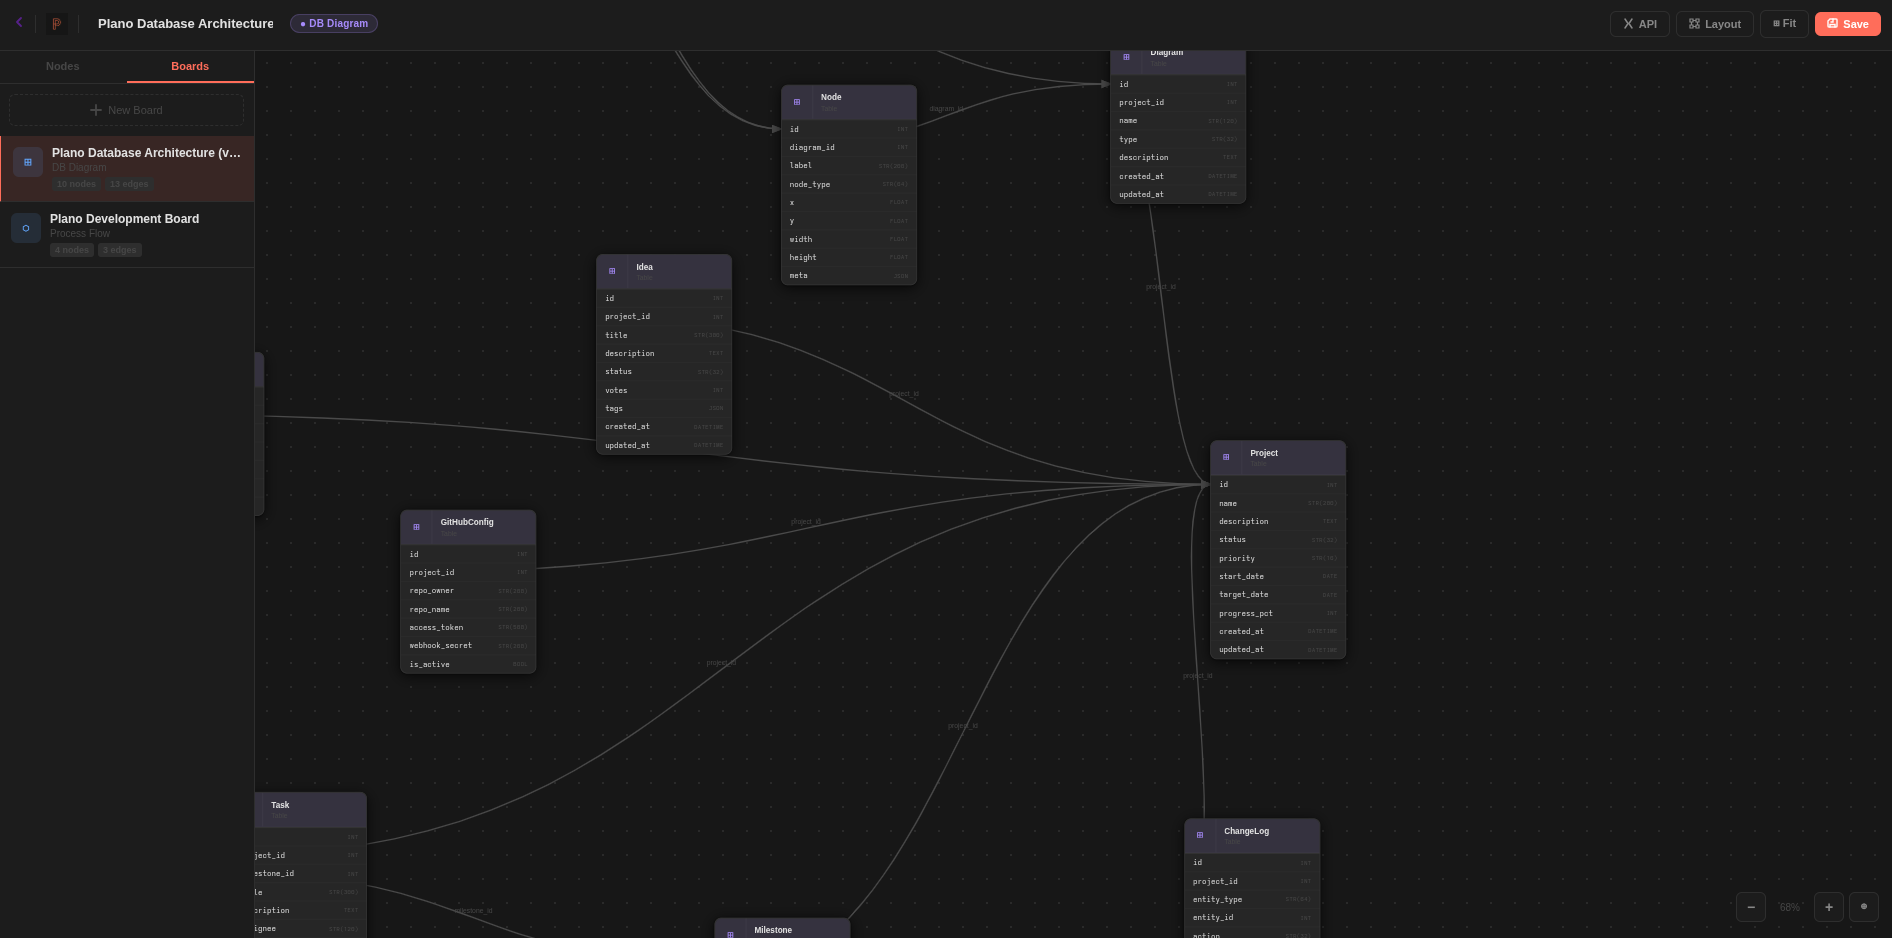
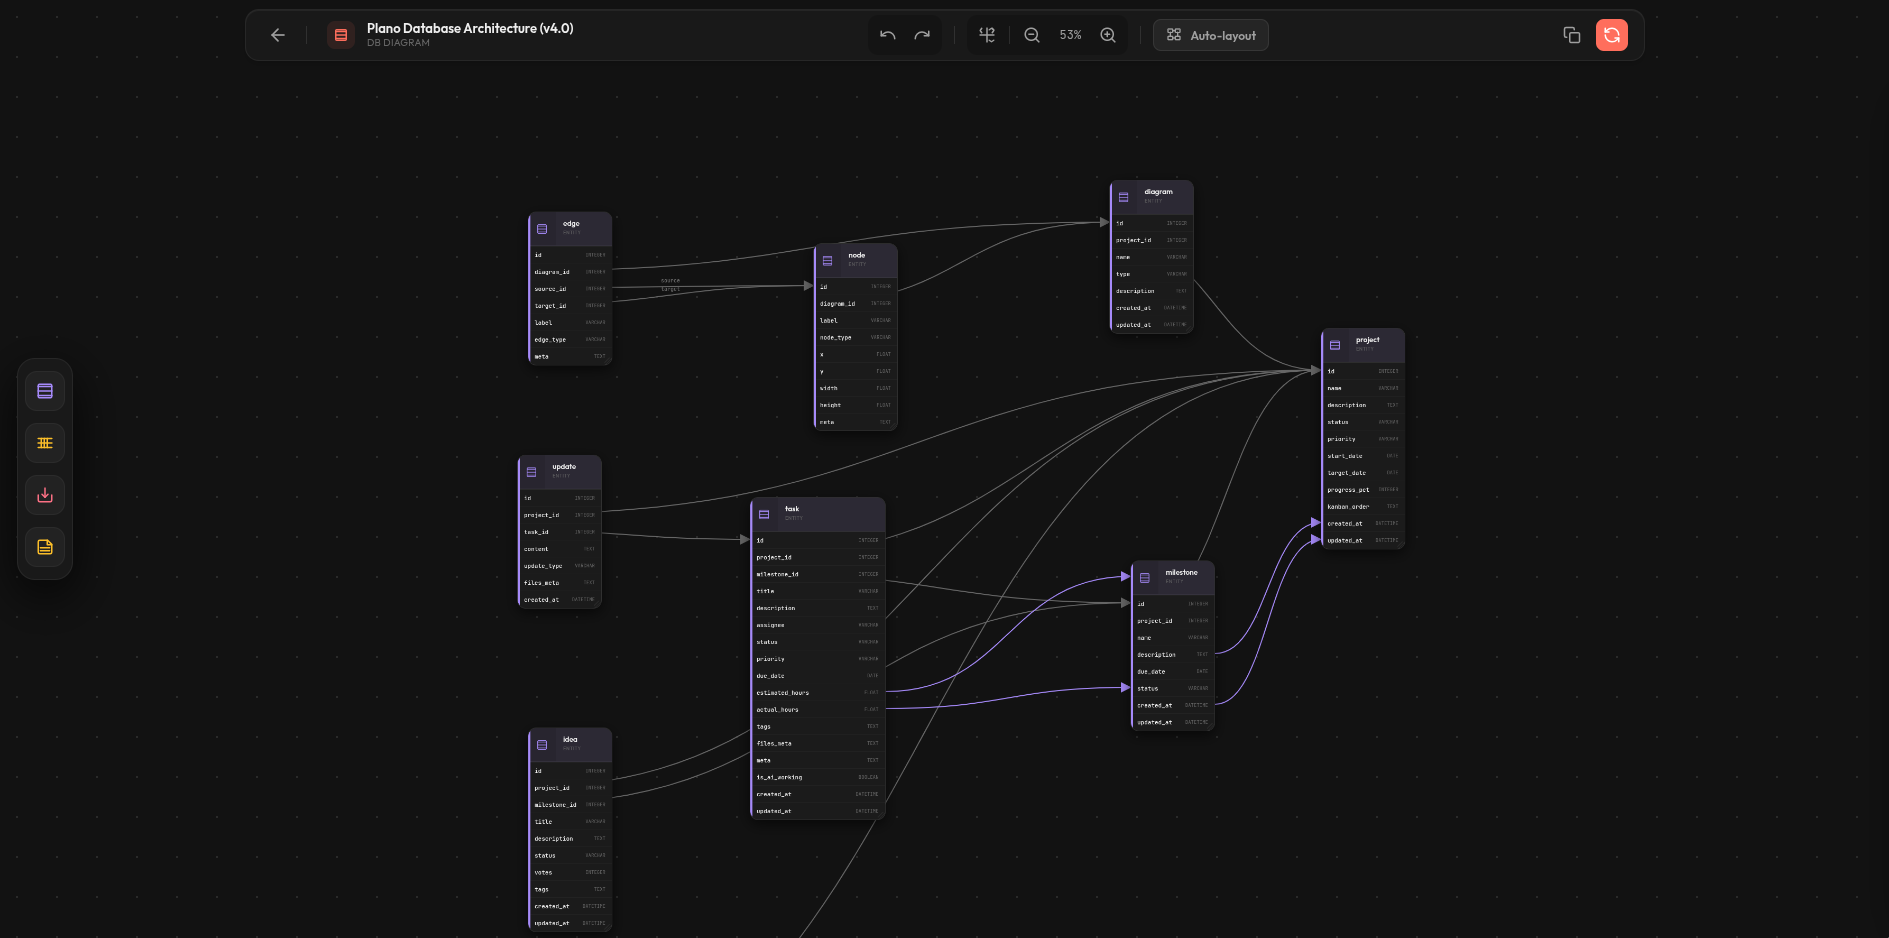
feat: completely rebuild the visual board editor with a high-fidelity reactive canvas and intelligent auto-layout, updating documentation and screenshots.

diff --git a/README.md b/README.md
@@ -8,7 +8,7 @@ It features built-in visual diagrams alongside standard task tracking so your ar
 ## Features
 
 - **Project & Task Management**: A full project tracking system with milestones, tasks (kanban/list views), tags, and updates.
-- **Dynamic Visual Boards**: Create interactive diagrams directly within projects (Process Flows, DB Diagrams, Flowcharts, Idea Maps, and more).
+- **Overhauled Visual Boards**: A completely rebuilt high-fidelity editor for diagrams (Process Flows, DB Diagrams, Flowcharts) with reactive state and intelligent auto-layout.
 - **Relational DB Visualization**: Rich metadata schema for database nodes, including columns, types, and primary/foreign keys.
 - **MCP Native Integration**: Built from the ground up to be easily operated via the Model Context Protocol (MCP).
 - **Real-time Reactivity**: Live system-wide updates and AI tool-call indicators powered by Server-Sent Events (SSE).
@@ -18,10 +18,17 @@ It features built-in visual diagrams alongside standard task tracking so your ar
 
 ## Screenshots
 
-![Screenshot 1](https://github.com/nopan-studio/plano/raw/main/static/1.png)
-![Screenshot 2](https://github.com/nopan-studio/plano/raw/main/static/2.png)
-![Screenshot 3](https://github.com/nopan-studio/plano/raw/main/static/3.png)
-![Screenshot 4](https://github.com/nopan-studio/plano/raw/main/static/4.png)
+![Project Dashboard](https://github.com/nopan-studio/plano/raw/main/static/1.png)
+*Figure 1: Unified dashboard with real-time progress tracking.*
+
+![Kanban Workflow](https://github.com/nopan-studio/plano/raw/main/static/2.png)
+*Figure 2: Interactive Kanban board with AI-activity indicators.*
+
+![Process Architect](https://github.com/nopan-studio/plano/raw/main/static/3.png)
+*Figure 3: Architect-level process flows and system diagrams.*
+
+![Board Editor Overhaul](https://github.com/nopan-studio/plano/raw/main/static/4.png)
+*Figure 4: **Major Overhaul**: High-fidelity Board Editor with reactive database modeling and intelligent edge routing.*
 
 
 ## Getting Started
@@ -124,7 +131,7 @@ Add the following to your `claude_desktop_config.json` (replacing `/PATH/TO/PLAN
   - **Unified Workspace Structure**: Migrated all core logic into a clean `/backend` and `/frontend` directory structure.
   - **Gevent Performance Boost**: Replaced `eventlet` with `gevent` for significant performance improvements and better SocketIO stability.
   - **Docker Engine Revamp**: Introduced a unified `docker-run.sh` management script and optimized `docker-compose` for full-stack deployments.
-  - **Visual Board Polish**: Fixed node corner visual bugs and implemented conditional visibility for column connection points in DB Diagrams.
+  - **Complete Board Editor Overhaul**: Fully rebuilt reactive canvas with improved performance, intelligent edge routing, and rich database modeling (as showcased in Figure 4).
   - **Silent Data Sync**: Optimized the dashboard to perform "silent reloads" for project meta changes, eliminating UI flickering during AI tool calls.
   - **Enhanced AI Notifications**: Added real-time toast notifications whenever an AI agent utilizes an MCP tool.
 
